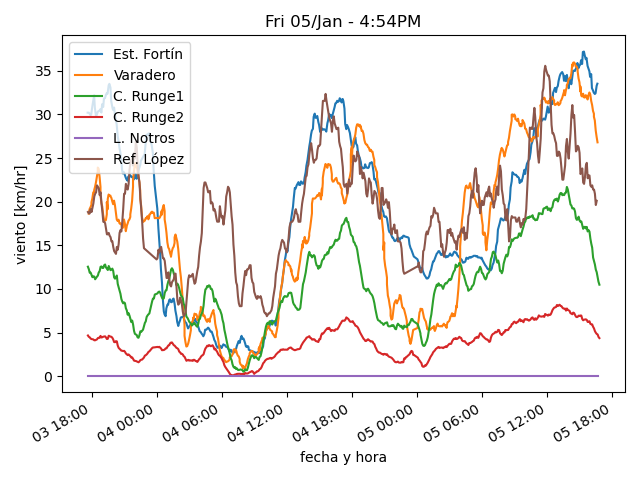
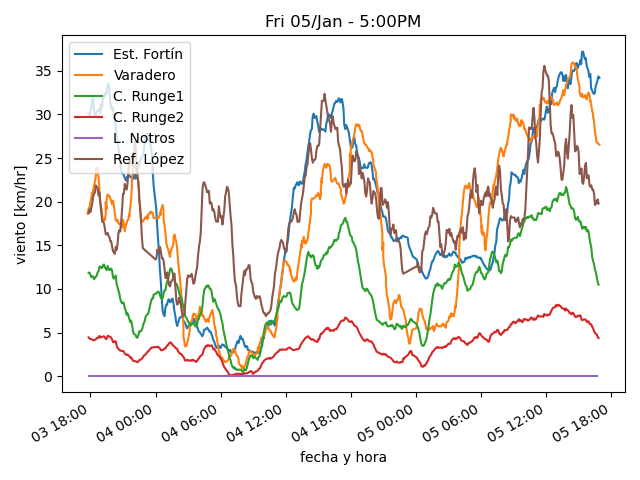
actualiza datos

diff --git a/estaciones/estacion2.html b/estaciones/estacion2.html
@@ -18,32 +18,32 @@
     </tr>
     <tr>
      <td class="stats_data">
-      4:39PM
+      4:54PM
      </td>
     </tr>
     <tr>
      <td class="stats_data">
-      17.2
+      17.1
      </td>
     </tr>
     <tr>
      <td class="stats_data">
-      12.6
+      12.4
      </td>
     </tr>
     <tr>
      <td class="stats_data">
-      74.0
+      73.5
      </td>
     </tr>
     <tr>
      <td class="stats_data">
-      1012.12
+      1011.92
      </td>
     </tr>
     <tr>
      <td class="stats_data">
-      21.9/25.6 NW
+      21.8/26.4 NW
      </td>
     </tr>
     <tr>
@@ -53,12 +53,12 @@
     </tr>
     <tr>
      <td class="stats_data">
-      2.0
+      1.0
      </td>
     </tr>
     <tr>
      <td class="stats_data">
-      203.8
+      157.8
      </td>
     </tr>
    </tbody>

diff --git a/estaciones/estacion1.html b/estaciones/estacion1.html
@@ -18,22 +18,22 @@
     </tr>
     <tr>
      <td class="stats_data">
-      4:38PM
+      4:54PM
      </td>
     </tr>
     <tr>
      <td class="stats_data">
-      19.1
+      20.3
      </td>
     </tr>
     <tr>
      <td class="stats_data">
-      10.1
+      10.4
      </td>
     </tr>
     <tr>
      <td class="stats_data">
-      56.0
+      53.0
      </td>
     </tr>
     <tr>
@@ -43,7 +43,7 @@
     </tr>
     <tr>
      <td class="stats_data">
-      16.3/37.8 W
+      18.7/32.7 WSW
      </td>
     </tr>
     <tr>
@@ -53,12 +53,12 @@
     </tr>
     <tr>
      <td class="stats_data">
-      4.6
+      5.3
      </td>
     </tr>
     <tr>
      <td class="stats_data">
-      406.0
+      1009.0
      </td>
     </tr>
    </tbody>

diff --git a/estaciones/estacion6.html b/estaciones/estacion6.html
@@ -18,32 +18,32 @@
     </tr>
     <tr>
      <td class="stats_data">
-      4:35PM
+      4:50PM
      </td>
     </tr>
     <tr>
      <td class="stats_data">
-      9.3
+      9.2
      </td>
     </tr>
     <tr>
      <td class="stats_data">
-      7.7
+      7.9
      </td>
     </tr>
     <tr>
      <td class="stats_data">
-      90.0
+      92.0
      </td>
     </tr>
     <tr>
      <td class="stats_data">
-      1010.87
+      1010.9
      </td>
     </tr>
     <tr>
      <td class="stats_data">
-      8.0/20.9 ENE
+      6.4/19.3 NE
      </td>
     </tr>
     <tr>
